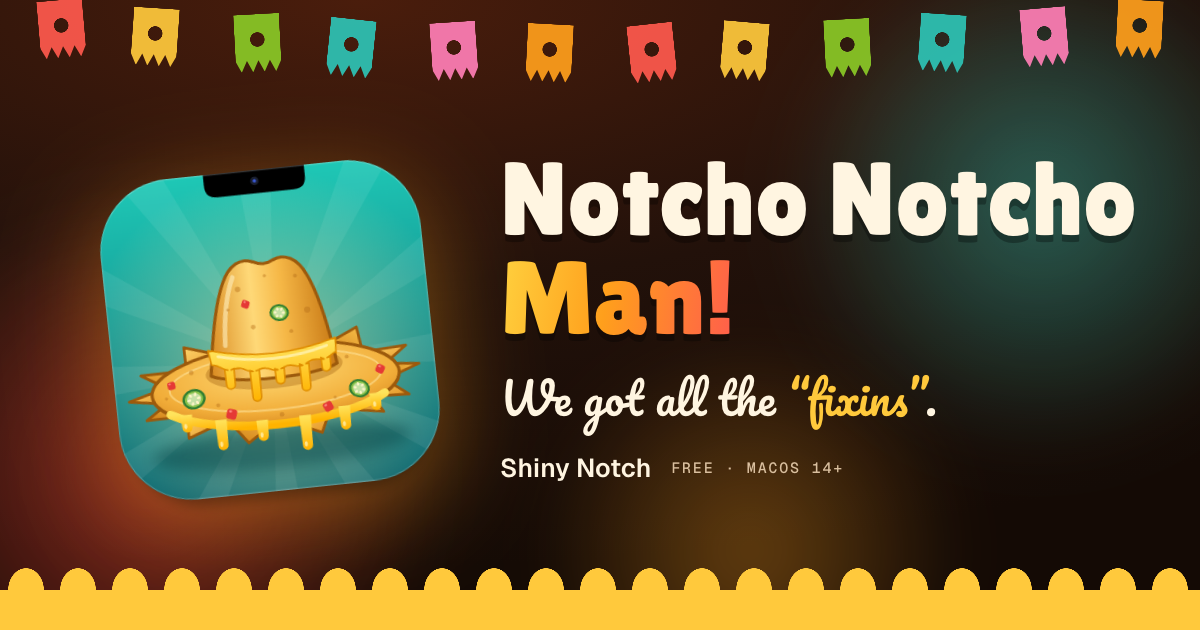
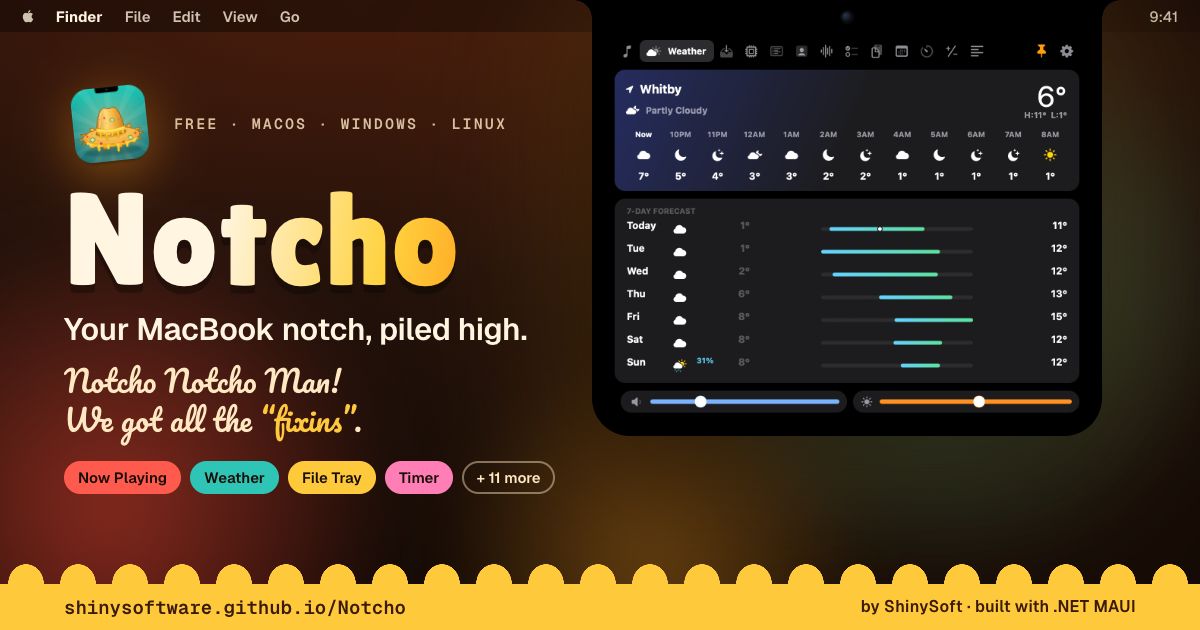
Redesign social preview card
Show the notch weather panel and feature highlights in the social card, update its alt text, and document the macOS rendering command.

diff --git a/docs/brand/social-card.html b/docs/brand/social-card.html
@@ -1,55 +1,86 @@
 <!doctype html>
-<!-- The website's social preview (og:image), 1200x630. Render it to website/assets/social-card.png with:
-     msedge --headless --hide-scrollbars --window-size=1200,630 --screenshot=website/assets/social-card.png docs/brand/social-card.html -->
+<!-- The website's social preview (og:image), 1200x630. Render it to website/assets/social-card.png with (macOS):
+     "/Applications/Microsoft Edge.app/Contents/MacOS/Microsoft Edge" --headless --hide-scrollbars --force-device-scale-factor=1 \
+       --virtual-time-budget=8000 --window-size=1200,630 --screenshot=website/assets/social-card.png docs/brand/social-card.html -->
 <html lang="en">
 <head>
 <meta charset="utf-8">
-<link rel="stylesheet" href="https://fonts.googleapis.com/css2?family=Lilita+One&family=Pacifico&family=Geist:wght@400..600&family=Geist+Mono:wght@500&display=swap">
+<link rel="stylesheet" href="https://fonts.googleapis.com/css2?family=Lilita+One&family=Pacifico&family=Geist:wght@400..700&family=Geist+Mono:wght@500;600&display=swap">
 <style>
   * { box-sizing: border-box; }
   html, body { margin: 0; width: 1200px; height: 630px; overflow: hidden; }
   body { position: relative; background: radial-gradient(120% 90% at 30% 0%, #4a1d0c, #22110a 50%, #140a05); color: #fff5e1; font-family: "Geist", system-ui, sans-serif; -webkit-font-smoothing: antialiased; }
 
   .blob { position: absolute; border-radius: 50%; mix-blend-mode: screen; opacity: .55; filter: blur(30px); }
-  .b1 { width: 620px; height: 620px; left: -160px; top: 160px; background: radial-gradient(circle, #e63b2e, transparent 65%); }
-  .b2 { width: 560px; height: 560px; right: -120px; top: -80px; background: radial-gradient(circle, #14988c, transparent 65%); }
-  .b3 { width: 460px; height: 460px; left: 520px; top: 320px; background: radial-gradient(circle, #ff9f1c, transparent 65%); opacity: .35; }
+  .b1 { width: 620px; height: 620px; left: -200px; top: 200px; background: radial-gradient(circle, #e63b2e, transparent 65%); }
+  .b2 { width: 640px; height: 640px; right: -60px; top: -40px; background: radial-gradient(circle, #14988c, transparent 65%); }
+  .b3 { width: 460px; height: 460px; left: 420px; top: 330px; background: radial-gradient(circle, #ff9f1c, transparent 65%); opacity: .35; }
 
-  /* papel picado */
-  .bunting { position: absolute; left: 0; right: 0; top: 0; height: 90px; display: flex; justify-content: space-around; padding: 0 10px; }
-  .flag { width: 46px; height: 58px; margin-top: calc(var(--y) * 1px); transform: rotate(calc(var(--r) * 1deg)); transform-origin: 50% 0; background: var(--c); opacity: .92;
-    clip-path: polygon(0 0, 100% 0, 100% 80%, 87.5% 100%, 75% 80%, 62.5% 100%, 50% 80%, 37.5% 100%, 25% 80%, 12.5% 100%, 0 80%);
-    -webkit-mask: radial-gradient(circle at 50% 44%, transparent 7px, #000 7.5px); mask: radial-gradient(circle at 50% 44%, transparent 7px, #000 7.5px); }
+  /* A macOS menu bar, so the panel reads as growing out of the notch. */
+  .menubar { position: absolute; left: 0; right: 0; top: 0; height: 32px; background: rgba(20, 10, 5, .55); backdrop-filter: blur(10px);
+    display: flex; align-items: center; justify-content: space-between; padding: 0 22px; font: 600 15px/1 "Geist", sans-serif; color: rgba(255, 245, 225, .78); }
+  .menubar .l { display: flex; gap: 22px; }
+  .menubar .l b { font-weight: 700; color: #fff5e1; }
+  .menubar .r { display: flex; gap: 18px; font-weight: 500; }
 
-  .logo { position: absolute; left: 70px; top: 130px; width: 400px; height: 400px; filter: drop-shadow(0 24px 50px rgba(255, 159, 28, .45)); transform: rotate(-6deg); }
-  .copy { position: absolute; left: 500px; right: 50px; top: 150px; }
-  h1 { margin: 0; font: 400 104px/.95 "Lilita One", system-ui, sans-serif; text-shadow: 0 7px 0 rgba(0, 0, 0, .3); }
-  h1 em { font-style: normal; text-shadow: none; filter: drop-shadow(0 7px 0 rgba(0, 0, 0, .3)); background: linear-gradient(100deg, #ffd23f, #ff9f1c 45%, #ff5a4e); -webkit-background-clip: text; background-clip: text; color: transparent; padding-right: .04em; }
-  .slogan { margin: 22px 0 0; font: 400 44px/1.25 "Pacifico", cursive; }
+  /* The open notch: flush with the top edge, curving out into the menu bar like the real one. */
+  .notch { position: absolute; top: 0; left: 592px; width: 510px; padding: 34px 12px 12px; background: #000; border-radius: 0 0 38px 38px;
+    filter: drop-shadow(0 30px 60px rgba(0, 0, 0, .55)) drop-shadow(0 0 70px rgba(255, 159, 28, .28)); }
+  .notch::before, .notch::after { content: ""; position: absolute; top: 0; width: 18px; height: 18px; }
+  .notch::before { right: 100%; background: radial-gradient(circle at 0 100%, transparent 17.5px, #000 18px); }
+  .notch::after { left: 100%; background: radial-gradient(circle at 100% 100%, transparent 17.5px, #000 18px); }
+  .cam { position: absolute; top: 12px; left: 50%; width: 10px; height: 10px; margin-left: -5px; border-radius: 50%; background: radial-gradient(circle at 35% 35%, #2b3550, #0b0d14 70%); box-shadow: 0 0 0 2px #0a0a0a; }
+  .notch img { display: block; width: 100%; border-radius: 26px; }
+
+  .copy { position: absolute; left: 64px; top: 78px; width: 520px; }
+  .eyebrow { display: flex; align-items: center; gap: 18px; }
+  .eyebrow img { width: 92px; height: 92px; transform: rotate(-6deg); filter: drop-shadow(0 12px 26px rgba(255, 159, 28, .45)); }
+  .eyebrow span { font: 600 15px/1.5 "Geist Mono", monospace; letter-spacing: .14em; text-transform: uppercase; color: #d9bf9f; }
+  h1 { margin: 6px 0 0; font: 400 132px/.95 "Lilita One", system-ui, sans-serif; letter-spacing: .005em; filter: drop-shadow(0 8px 0 rgba(0, 0, 0, .3));
+    background: linear-gradient(100deg, #fff5e1 30%, #ffd23f 62%, #ff9f1c 82%, #ff5a4e); -webkit-background-clip: text; background-clip: text; color: transparent; }
+  .tag { margin: 10px 0 0; font: 600 31px/1.2 "Geist", sans-serif; letter-spacing: -.01em; }
+  .slogan { margin: 12px 0 0; font: 400 30px/1.3 "Pacifico", cursive; color: #ffe8c2; }
   .slogan b { font-weight: 400; color: #ffc93c; }
-  .brand { margin-top: 30px; display: inline-flex; align-items: center; gap: 12px; font: 600 26px/1 "Geist", sans-serif; }
-  .brand span { font: 500 15px/1 "Geist Mono", monospace; letter-spacing: .12em; text-transform: uppercase; color: #d9bf9f; margin-left: 8px; }
+  .chips { margin-top: 22px; display: flex; flex-wrap: wrap; gap: 9px; max-width: 520px; }
+  .chip { font: 600 15px/1 "Geist", sans-serif; padding: 9px 14px; border-radius: 999px; color: #1a0d06; background: var(--c); }
+  .chip.more { background: transparent; color: #ffe8c2; box-shadow: inset 0 0 0 2px rgba(255, 232, 194, .45); }
 
-  .drip { position: absolute; left: 0; right: 0; bottom: 0; height: 40px; background: #ffc93c; }
-  .drip::before { content: ""; position: absolute; left: 0; right: 0; bottom: 100%; height: 34px; background: radial-gradient(18px 22px at 50% 100%, #ffc93c 98%, transparent) 0 0 / 52px 34px repeat-x; }
+  .drip { position: absolute; left: 0; right: 0; bottom: 0; height: 46px; background: #ffc93c; display: flex; align-items: center; justify-content: space-between; padding: 0 64px; }
+  .drip::before { content: ""; position: absolute; left: 0; right: 0; bottom: 100%; height: 30px; background: radial-gradient(18px 20px at 50% 100%, #ffc93c 98%, transparent) 0 0 / 52px 30px repeat-x; }
+  .drip span { position: relative; font: 600 19px/1 "Geist Mono", monospace; color: #3a1a08; }
+  .drip span.by { font: 600 16px/1 "Geist", sans-serif; letter-spacing: .02em; }
 </style>
 </head>
 <body>
   <span class="blob b1"></span><span class="blob b2"></span><span class="blob b3"></span>
-  <div class="bunting">
-    <span class="flag" style="--c:#ff5a4e;--y:0;--r:-5"></span><span class="flag" style="--c:#ffc93c;--y:8;--r:4"></span><span class="flag" style="--c:#8ac926;--y:14;--r:-3"></span>
-    <span class="flag" style="--c:#2ec4b6;--y:19;--r:6"></span><span class="flag" style="--c:#ff7eb6;--y:22;--r:-4"></span><span class="flag" style="--c:#ff9f1c;--y:24;--r:3"></span>
-    <span class="flag" style="--c:#ff5a4e;--y:24;--r:-6"></span><span class="flag" style="--c:#ffc93c;--y:22;--r:5"></span><span class="flag" style="--c:#8ac926;--y:19;--r:-3"></span>
-    <span class="flag" style="--c:#2ec4b6;--y:14;--r:4"></span><span class="flag" style="--c:#ff7eb6;--y:8;--r:-5"></span><span class="flag" style="--c:#ff9f1c;--y:0;--r:3"></span>
+
+  <div class="menubar">
+    <div class="l"><span>&#63743;</span><b>Finder</b><span>File</span><span>Edit</span><span>View</span><span>Go</span></div>
+    <div class="r"><span>9:41</span></div>
   </div>
 
-  <img class="logo" src="../../website/assets/icon.svg" alt="">
+  <div class="notch">
+    <span class="cam"></span>
+    <img src="../screenshots/weather.png" alt="">
+  </div>
 
   <div class="copy">
-    <h1>Notcho Notcho <em>Man!</em></h1>
-    <p class="slogan">We got all the <b>“fixins”</b>.</p>
-    <div class="brand">Notcho <span>Free · macOS 14+</span></div>
+    <div class="eyebrow">
+      <img src="../../website/assets/icon.svg" alt="">
+      <span>Free · macOS · Windows · Linux</span>
+    </div>
+    <h1>Notcho</h1>
+    <p class="tag">Your MacBook notch, piled high.</p>
+    <p class="slogan">Notcho Notcho Man!<br>We got all the <b>“fixins”</b>.</p>
+    <div class="chips">
+      <span class="chip" style="--c:#ff5a4e">Now Playing</span>
+      <span class="chip" style="--c:#2ec4b6">Weather</span>
+      <span class="chip" style="--c:#ffc93c">File Tray</span>
+      <span class="chip" style="--c:#ff7eb6">Timer</span>
+      <span class="chip more">+ 11 more</span>
+    </div>
   </div>
-  <div class="drip"></div>
+
+  <div class="drip"><span>shinysoftware.github.io/Notcho</span><span class="by">by ShinySoft · built with .NET MAUI</span></div>
 </body>
 </html>

diff --git a/website/index.html b/website/index.html
@@ -14,7 +14,7 @@
 <meta property="og:image" content="https://shinysoftware.github.io/Notcho/assets/social-card.png">
 <meta property="og:image:width" content="1200">
 <meta property="og:image:height" content="630">
-<meta property="og:image:alt" content="Notcho: the nacho hat logo and the slogan Notcho Notcho Man, we got all the fixins">
+<meta property="og:image:alt" content="Notcho: a MacBook notch opened into a weather panel, next to the nacho hat logo and the slogan Notcho Notcho Man, we got all the fixins">
 <meta name="twitter:card" content="summary_large_image">
 <meta name="twitter:image" content="https://shinysoftware.github.io/Notcho/assets/social-card.png">
 <link rel="icon" href="assets/icon.svg" type="image/svg+xml">
